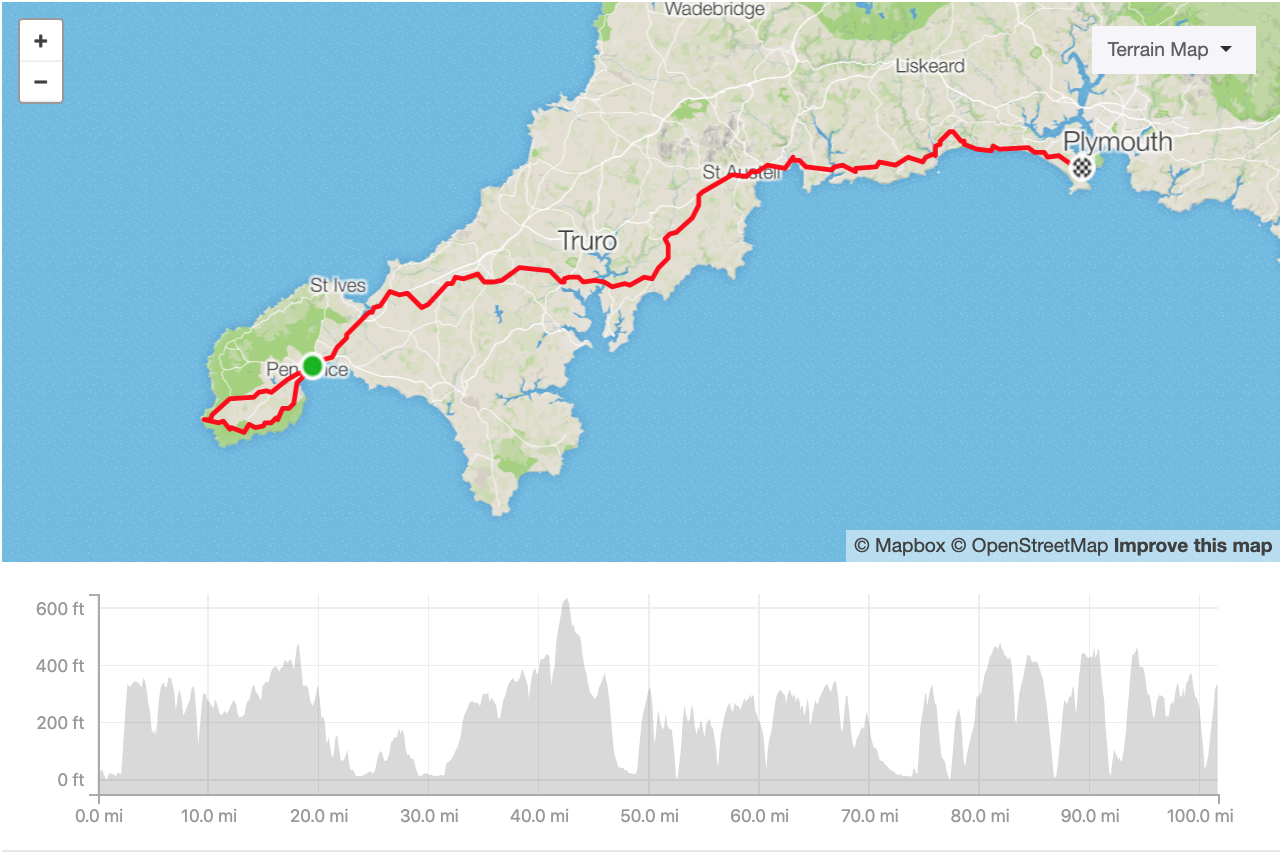
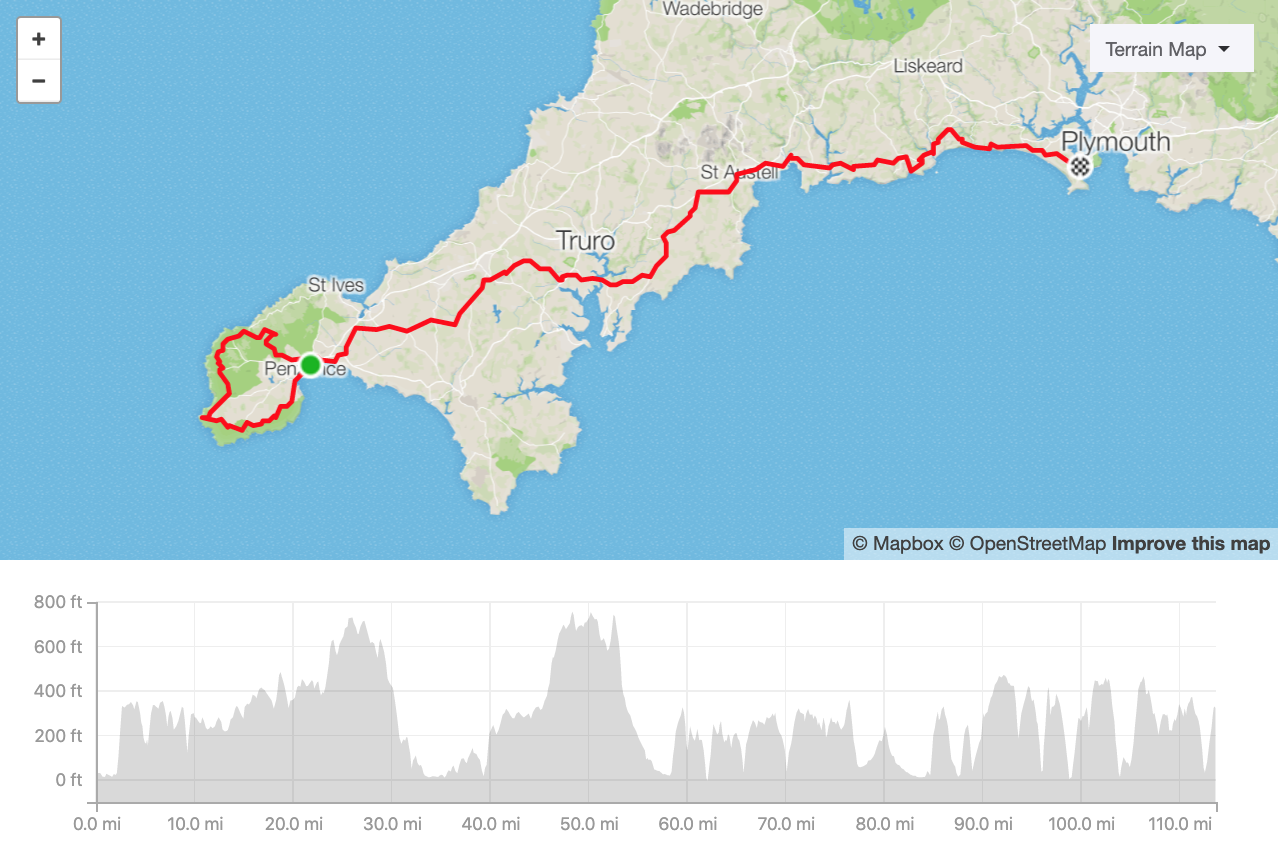
Komoot

diff --git a/src/layouts/index.js b/src/layouts/index.js
@@ -24,6 +24,10 @@ const SidebarMenuInstance = connect(mapStateToProps)(SidebarMenu);
 
 const Layout = ({ children, data, location }) => {
   const { pathname } = location;
+
+  const description = data.post ? data.post.frontmatter.title : data.site.siteMetadata.title;
+  const keywords = data.post ? data.post.frontmatter.tags : '';
+
   return (
     <Provider store={store}>
       <ThemeProvider theme={theme}>
@@ -52,8 +56,8 @@ const Layout = ({ children, data, location }) => {
           <Helmet
             title={data.site.siteMetadata.title}
             meta={[
-              { name: 'description', content: 'Sample' },
-              { name: 'keywords', content: 'sample, something' }
+              { name: 'description', content: description },
+              { name: 'keywords', content: keywords }
             ]}
           />
           <SidebarMenuInstance

diff --git a/src/templates/blog-post.jsx b/src/templates/blog-post.jsx
@@ -24,8 +24,10 @@ class Iframe extends React.Component {
         css={css(`
       border: none;
       width: 100%;
-      min-height: 100px;
     `)}
+    style={{
+      minHeight: (this.props.height || '100') + 'px'
+    }}
       />
     );
   }
@@ -92,7 +94,6 @@ const renderAst = node => {
       return n;
     }
   });
-  console.log(node);
   return renderAstFunction(node);
 };
 
@@ -293,7 +294,8 @@ export const pageQuery = graphql`
 
     site: site {
       siteMetadata {
-        disqus
+        disqus,
+        title
       }
     }
 

diff --git a/src/store.jsx b/src/store.jsx
@@ -25,4 +25,4 @@ export const store = createStore(
   initialState,
   devToolsEnhancer({})
 );
-store.subscribe(() => console.log("NEW STATE", store.getState()));
+// store.subscribe(() => console.log("NEW STATE", store.getState()));

diff --git a/data/blog/2019-05-15-planning-2019-cornwall-to-kent-cycle/index.md b/data/blog/2019-05-15-planning-2019-cornwall-to-kent-cycle/index.md
@@ -1,9 +1,9 @@
 ---
 title: 'Cornwall to Kent 2019 plan'
 createdDate: '2019-05-15'
-updatedDate: '2019-05-19'
+updatedDate: '2019-05-30'
 author: sielay
-tags: [cycle,fundraise,justgiving,donate,cycling,trip,planning,kent,sussex,west sussex,east sussex,hampshire,devon,dorset,cornwall,strava]
+tags: [cycle,fundraise,justgiving,donate,cycling,trip,planning,kent,sussex,west sussex,east sussex,hampshire,devon,dorset,cornwall,strava,komoot]
 draft: false
 image: trip2019.png
 ---
@@ -68,7 +68,7 @@ places where I will do 8-10 mph, but loads where I'll do 20 and over.
 Breaks are calculated seperately, to allow refuel, use the toilet and lay down,
 but not to allow to stiffen. Better often a bit than once in a while and too long.
 
-## Tranining and diet
+## Training and diet
 
 With such effort as cycling over 100 miles five days in the row, I need to put
 my form to a maximum of my capacities. That means all jokes aside. My daily commute
@@ -82,7 +82,13 @@ tried to join my colleagues during Ramadan and basically limited myself to OMAD
 eating all food groups and won't be fussy at least with that. I also spent the
 last two weeks without coffee and I'll return it in moderation.
 
-## Depature
+Following documents will be updating as I'll progress to the date of the event.
+
+<iframe src="https://docs.google.com/spreadsheets/d/e/2PACX-1vRlgkHxfHJ2Txuo5JXvA-QS3vPwEhRskSSsvQ6grHX_97guzphygvTAo_PuP1hsvvt550amv8iC_G09/pubhtml?gid=1093190589&amp;single=true&amp;widget=true&amp;headers=false" height="400"></iframe>
+
+<iframe src="https://docs.google.com/spreadsheets/d/e/2PACX-1vRlgkHxfHJ2Txuo5JXvA-QS3vPwEhRskSSsvQ6grHX_97guzphygvTAo_PuP1hsvvt550amv8iC_G09/pubhtml?gid=1896359391&amp;single=true&amp;widget=true&amp;headers=false" height="400"></iframe>
+
+## Departure
 
 I will leave the office earlier on 31st July to get to London Paddington station
 and from there take a train to Penzance. I investigated two ways how to commute to
@@ -95,22 +101,9 @@ bikes (2 per wagon). The only sensible option was the 6 pm train from Paddington
 I'd arrive there around 23:00 and stay at [Ponsandane](http://www.ponsandane.co.uk/)
 camping site.
 
-<div className="google">
-  <iframe src="https://www.google.com/maps/d/embed?mid=14QLAe8KsEvMSYioNTf5Sy5NUxA-OEjKh" width="640" height="480"></iframe>
-</div>
-
 ## Day 1
 
-![Cornwall to Kent - Day 1](day1.png)
-
-<div class="summary">
-
- * Distance 114m
- * 10,522 feet elevation gain
- * 10:30h moving time
- * 7313 calories
-
-</div>
+<iframe src="https://www.komoot.com/tour/68897167/embed?profile=1&gallery=1" width="100%" height="580" frameborder="0" scrolling="no"></iframe>
 
 I'll leave in the morning west, to the Lands End <sup>13m</sup> where I can have some nice
 Cornish Pastry together with taking some pics. From there trip to Kent really starts.
@@ -183,16 +176,7 @@ on the Channel and the harbours.
 
 ## Day 2
 
-![Cornwall to Kent - Day 2](day2.png)
-
-<div class="summary">
-
- * Distance 119.95m
- * 10,428 feet elevation gain
- * 11h moving time
- * 7712 calories
-
-</div>
+<iframe src="https://www.komoot.com/tour/68897663/embed?profile=1&gallery=1" width="100%" height="580" frameborder="0" scrolling="no"></iframe>
 
 In the early morning, I'll use a [Cremyll Ferry](https://www.plymouthboattrips.co.uk/ferries/cremyll-ferry) <sup>3m</sup> leave Cornwall and enter Plymouth, Devon. To reach it I'd be
 passing Mount Edgcumbe House with artificial (made in XVIII century) ruin on top of
@@ -255,16 +239,7 @@ Regis <sup>119m</sup> I'll stay at
 
 ## Day 3
 
-![Cornwall to Kent - Day 3](day3.png)
-
-<div class="summary">
-
- * Distance 116m
- * 4,864 feet elevation gain
- * 10h moving time
- * 7512 calories
-
- </div>
+<iframe src="https://www.komoot.com/tour/68898196/embed?profile=1&gallery=1" width="100%" height="580" frameborder="0" scrolling="no"></iframe>
 
 I'll wake up with the view on Fleet, long sandy beach slit from the land with
 a shallow canal on one side and Isle of Portland on the other. I'll ride around
@@ -297,8 +272,8 @@ on the previous challenge.
 <instagram-embed url="BxfI9BxF5sF"></instagram-embed>
 
 After killer hills of Portsmouth, I'l make a small stop in Farnham <sup>93m</sup>
-and later onlyin Chichester <sup>110m</sup> for final, diner supply and head t
-owards next camping.
+and later only in Chichester <sup>110m</sup> for final, diner supply and head towards
+ next camping.
 
 <instagram-embed url="Bxer5UdBGPt"></instagram-embed>
 
@@ -324,16 +299,7 @@ to be sure they'll let me in. [Red House Farm](https://www.rhfcamping.co.uk/)
 
 ## Day 4
 
-![Cornwal to Kent - Day 4](day4.png)
-
-<div class="summary">
-
- * Distance 125m
- * 3,504 feet elevation gain
- * 11h moving time
- * 7952 calories
-
- </div>
+<iframe src="https://www.komoot.com/tour/68898570/embed?profile=1&gallery=1" width="100%" height="580" frameborder="0" scrolling="no"></iframe>
 
 From Chichester, I'll move towards the popular resort of Bognor Regis
 <sup>10m</sup>. That should be last stop for some snack and water as next over
@@ -348,7 +314,7 @@ Rottingdean <sup>42m</sup> where I found a nice cafe last year, all way to Seafo
 place to stop there would be McDonald's just behind Newheaven <sup>47m</sup> as
  Seaford doens't have too many amenities and the road from there is flat and smootch.
 
-<instagram-embed url=",BxfOR3cHb3r,Bwl6gOrlkFw"></instagram-embed>
+<instagram-embed url="BxfOR3cHb3r,Bwl6gOrlkFw"></instagram-embed>
 
 Before reaching Eastbourne <sup>61m</sup> I'll pass Birling Gap which is popular
 photo and rest spot and Belle Tout Lighthouse hotel.
@@ -394,18 +360,7 @@ A lovely little place with views of next day approach to Dover Cliffs.
 
 ## Day 5
 
-![Cornwal to Kent - Day 5](day5.png)
-
-<div class="summary">
-
- * Distance 123m
- * 5,922 feet elevation gain
- * 11h moving time
- * 7952 calories
-
- </div>
-
-Read the [main story](/blog/2019-05-15-planning-2019-cornwall-to-kent-cycle/).
+<iframe src="https://www.komoot.com/tour/68898793/embed?profile=1&gallery=1" width="100%" height="580" frameborder="0" scrolling="no"></iframe>
 
 I'll roll over 400 feet down to Dover <sup>6m</sup> just to climb again 400 and
 roll same down again. From there it will be flat all they way.
